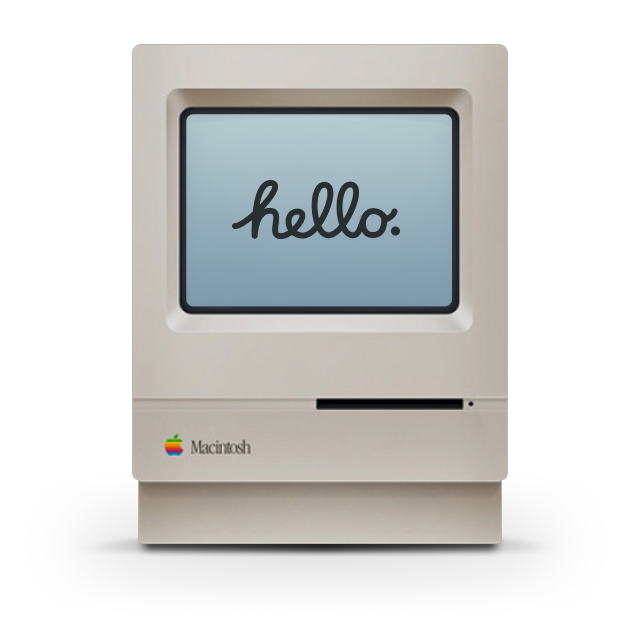
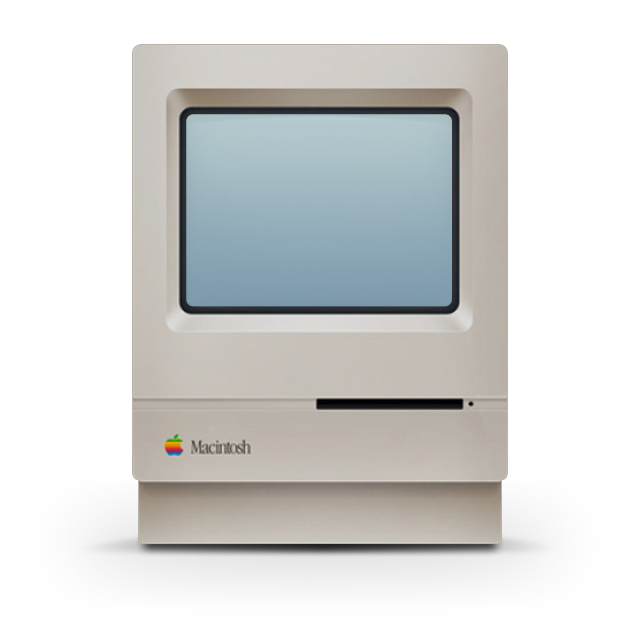
finish animations, remove unused items

Changed region(s): [[0.3596, 0.2732, 0.6293, 0.3946]]

diff --git a/index.html b/index.html
@@ -15,13 +15,19 @@
       theme: {
         extend: {
           keyframes: {
-            curtain: {
+            'curtain-top': {
               '0%': { transform: 'scaleY(1)' },
               '100%': { transform: 'scaleY(0)' },
+            },
+            'slide-x': {
+              '0%': { transform: 'scaleX(0)', marginLeft: 0, opacity: 1 },
+              '50%': { transform: 'scaleX(1)', marginLeft: 0, opacity: 1 },
+              '100%': { transform: 'scaleY(0)', marginLeft: '100px', opacity: 1 },
             }
           },
           animation: {
-            'curtain-ease': 'curtain 0.6s cubic-bezier(.70,0,.35,1) forwards',
+            'curtain-top': 'curtain-top 0.6s cubic-bezier(.70,0,.35,1) 3s forwards',
+            'slide-x': 'slide-x 1s cubic-bezier(.70,0,.35,1) infinite',
           }
         }
       }
@@ -29,17 +35,90 @@
   </script>
 </head>
 <body class="padding-0 margin-0 flex flex-1 h-screen justify-center" style="background-color: #DFDFDF;">
-  <div class="absolute w-screen h-screen bg-[#1446E7] z-50 transition-all animate-curtain-ease origin-top"></div>
+  <div class="absolute flex flex-col items-center justify-center w-screen h-screen bg-[#1446E7] z-50 transition-all animate-curtain-top origin-top">
+    <img class="mx-auto top-[50vh] mb-2" src="assets/matmac-light.svg" alt="Matmac Portfolio">
+    <div class="w-[100px] overflow-hidden">
+      <div class="h-[1px] bg-white w-[100px] transition-all animate-slide-x origin-left"></div>
+    </div>
+  </div>
   <header class="absolute h-[100px] flex items-center flex-row px-12 justify-between w-screen z-10">
     <a href="./"><img src="./assets/logo-matmac.svg" alt="Matmac - Design Manager"></a>
     <div>
-      <a class="text-[#39474E] text-base no-underline font-regular border-b hover:border-[#1446E7] hover:text-[#1446E7]" href="/projects" style="font-family: Inter, sans-serif;">Projects</a>
-      <a class="text-[#39474E] text-base no-underline font-regular mx-6 border-b hover:border-[#1446E7] hover:text-[#1446E7]" href="/about" style="font-family: Inter, sans-serif;">About</a>
+      <a class="text-[#39474E] text-base no-underline font-regular border-b hover:border-[#1446E7] hover:text-[#1446E7]" href="./projects" style="font-family: Inter, sans-serif;">Projects</a>
+      <a class="text-[#39474E] text-base no-underline font-regular mx-6 border-b hover:border-[#1446E7] hover:text-[#1446E7]" href="./about" style="font-family: Inter, sans-serif;">About</a>
       <a class="text-[#39474E] text-base no-underline font-regular border-b hover:border-[#1446E7] hover:text-[#1446E7]" href="mailto:hello@matmac.design" style="font-family: Inter, sans-serif;">Contact</a>
     </div>
   </header>
   <section class="flex flex-1 items-center justify-center flex-col">
     <div class="relative">
+      <div class="absolute inset-2/4 -ml-[3.125rem] -mt-[55px] z-[40] w-[100px] h-[50px]">
+        <svg xmlns="http://www.w3.org/2000/svg" xmlns:xlink="http://www.w3.org/1999/xlink" xmlns:dc="http://purl.org/dc/elements/1.1/" xmlns:cc="http://web.resource.org/cc/" xmlns:rdf="http://www.w3.org/1999/02/22-rdf-syntax-ns#" xmlns:sodipodi="http://sodipodi.sourceforge.net/DTD/sodipodi-0.dtd" xmlns:inkscape="http://www.inkscape.org/namespaces/inkscape"
+          version="1.1"
+          baseProfile="full"
+          width="100px"
+          height="50px"
+          viewBox="1 140 470 50"
+          preserveAspectRatio="xMidYMid meet"
+          id="svg_document"
+          style="zoom: 1;">
+        <g id="main_group">
+        <path
+          stroke="#292E31"
+          stroke-linejoin="round"
+          id="path1"
+          stroke-width="15.75px"
+          d="M23,213 C54.5,213 165.800003,98.900002 118.199997,98.200005 C70.599998,97.5 75.5,238.899994 75.5,238.899994 C75.5,238.899994 77.599998,172.399994 116.099998,172.399994 C154.599991,172.399994 109.799995,237.5 143.399994,239.600006 C177,241.699997 225.300003,175.899994 190.300003,174.5 C155.300003,173.100006 156,236.100006 202.899994,238.199997 C249.800003,240.300003 303.699982,105.900002 262.399994,103.099998 C221.099991,100.300003 228.800003,234.699997 270.799988,237.5 C312.799988,240.300003 373.699982,104.5 331,102.400002 C288.299988,100.300003 293.199982,236.800003 337.299988,237.5 C365.299988,236.100006 356.199982,171.699997 392.600006,173.100006 C412.899994,174.5 421.299988,189.899994 420.600006,189.199997 C419.899994,188.5 426.899994,236.800003 389.799988,236.800003 C352.699982,236.800003 356.899994,171.699997 392.600006,173.100006 C424.799988,175.899994 420.600006,203.899994 421.299988,196.199997 C421.299988,196.899994 444.399994,189.199997 447.899994,173.800003"
+          fill="none"
+          stroke-linecap="round"
+          transform="">
+        <animate
+          dur="2"
+          begin="0"
+          end="4s"
+          from="0"
+          values="0,1739;1739,0;"
+          id="hello1"
+          repeatCount="0"
+          fill="freeze"
+          attributeName="stroke-dasharray"
+          attributeType="XML">
+        </animate>
+        </path>
+        <circle
+          stroke="#292E31"
+          id="circle1"
+          stroke-width="3px"
+          cy="231.5px"
+          fill="#292E31"
+          r="10.5px"
+          cx="450.5px"
+          transform="">
+        <set dur="2.25s"
+          begin="hello1.begin"
+          id="set1"
+          repeatCount="0"
+          attributeName="r"
+          from="0"
+          to="1"
+          attributeType="XML">
+        </set>
+        <animate
+          additive="replace"
+          dur="0.25s"
+          begin="hello1.end"
+          id="animate1"
+          from="0"
+          values="0;10.5;"
+          accumulate="none"
+          repeatCount="0"
+          fill="freeze"
+          attributeName="r"
+          attributeType="XML">
+        </animate>
+        </circle>
+        </g>
+        </svg>
+      </div>
       <img class="absolute right-0 top-0 z-20 animate-[spin_10s_linear_infinite]" src="assets/available.svg" />
       <img class="relative z-10 mt-10" src="assets/matmacintosh.png" width="300" height="300" alt="Matmac Portfolio"/>
     </div>

diff --git a/projects/index.html b/projects/index.html
@@ -1,0 +1,45 @@
+<!DOCTYPE html>
+<html lang="en">
+<head>
+  <meta charset="UTF-8">
+  <meta http-equiv="X-UA-Compatible" content="IE=edge">
+  <meta name="viewport" content="width=device-width, initial-scale=1.0">
+  <link rel="shortcut icon" href="favicon.png" type="image/x-icon">
+  <link rel="preconnect" href="https://fonts.googleapis.com">
+  <link rel="preconnect" href="https://fonts.gstatic.com" crossorigin>
+  <link href="https://fonts.googleapis.com/css2?family=Inter:wght@100;400;600&display=swap" rel="stylesheet">
+  <script src="https://cdn.tailwindcss.com"></script>
+  <title>Matias Bejas - Projects</title>
+</head>
+<body class="padding-0 margin-0 flex flex-1 h-screen justify-center" style="background-color: #DFDFDF;">
+  <div class="absolute flex flex-col items-center justify-center w-screen h-screen bg-[#1446E7] z-50 transition-all animate-curtain-top origin-top">
+    <img class="mx-auto top-[50vh] mb-2" src="assets/matmac-light.svg" alt="Matmac Portfolio">
+    <div class="w-[100px] overflow-hidden">
+      <div class="h-[1px] bg-white w-[100px] transition-all animate-slide-x origin-left"></div>
+    </div>
+  </div>
+  <header class="absolute h-[100px] flex items-center flex-row px-12 justify-between w-screen z-10">
+    <a href="./"><img src="./assets/logo-matmac.svg" alt="Matmac - Design Manager"></a>
+    <div>
+      <a class="text-[#39474E] text-base no-underline font-regular border-b hover:border-[#1446E7] hover:text-[#1446E7]" href="/projects" style="font-family: Inter, sans-serif;">Projects</a>
+      <a class="text-[#39474E] text-base no-underline font-regular mx-6 border-b hover:border-[#1446E7] hover:text-[#1446E7]" href="/about" style="font-family: Inter, sans-serif;">About</a>
+      <a class="text-[#39474E] text-base no-underline font-regular border-b hover:border-[#1446E7] hover:text-[#1446E7]" href="mailto:hello@matmac.design" style="font-family: Inter, sans-serif;">Contact</a>
+    </div>
+  </header>
+  <section class="flex flex-1 items-center justify-center flex-col">
+  </section>
+  <footer class="absolute bottom-0 w-screen mb-8 px-12 text-[#39474e] text-base flex flex-row justify-between" style="font-family: Inter, sans-serif;">
+    <div>
+      <a class="text-[#39474E] font-regular border-b hover:border-[#1446E7] hover:text-[#1446E7]" href="https://www.linkedin.com/in/matiasbejas/" target="_blank" style="font-family: Inter, sans-serif;">Linkedin</a>
+      <a class="text-[#39474E] font-regular mx-6 border-b hover:border-[#ea4c89] hover:text-[#ea4c89]" href="https://dribbble.com/matmac" target="_blank" style="font-family: Inter, sans-serif;">Dribbble</a>
+      <a class="text-[#39474E] font-regular border-b hover:border-[#bc2a8d] hover:text-[#bc2a8d]" href="https://www.instagram.com/thematmac/" target="_blank" style="font-family: Inter, sans-serif;">Instagram</a>
+    </div>
+    <div>
+      &copy; Copyright
+      <span id="copyright">
+        <script>document.getElementById('copyright').appendChild(document.createTextNode(new Date().getFullYear()))</script>
+      </span>
+    </div>
+  </footer>
+</body>
+</html>
